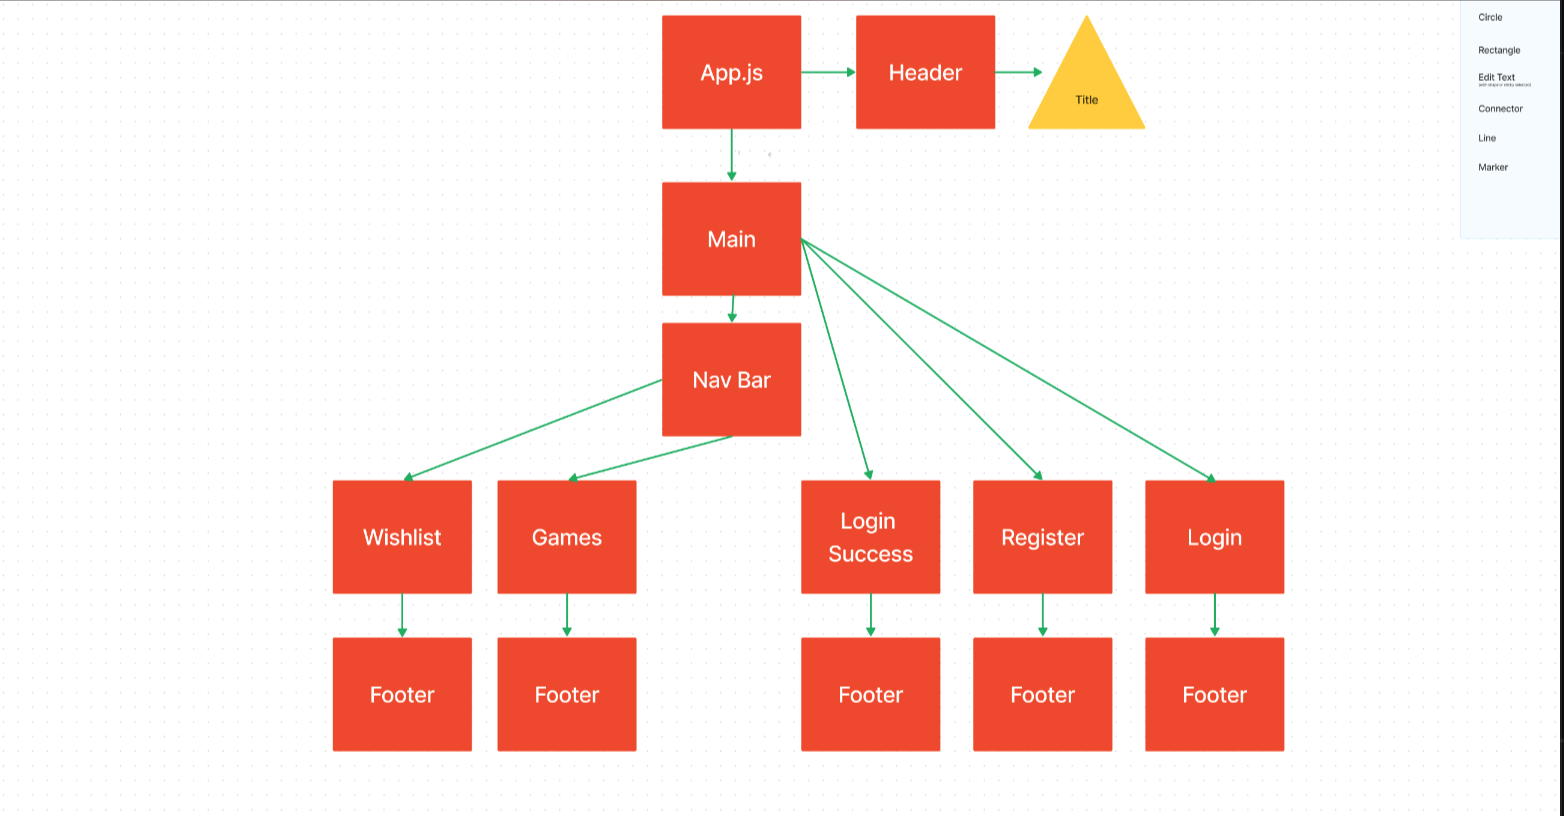
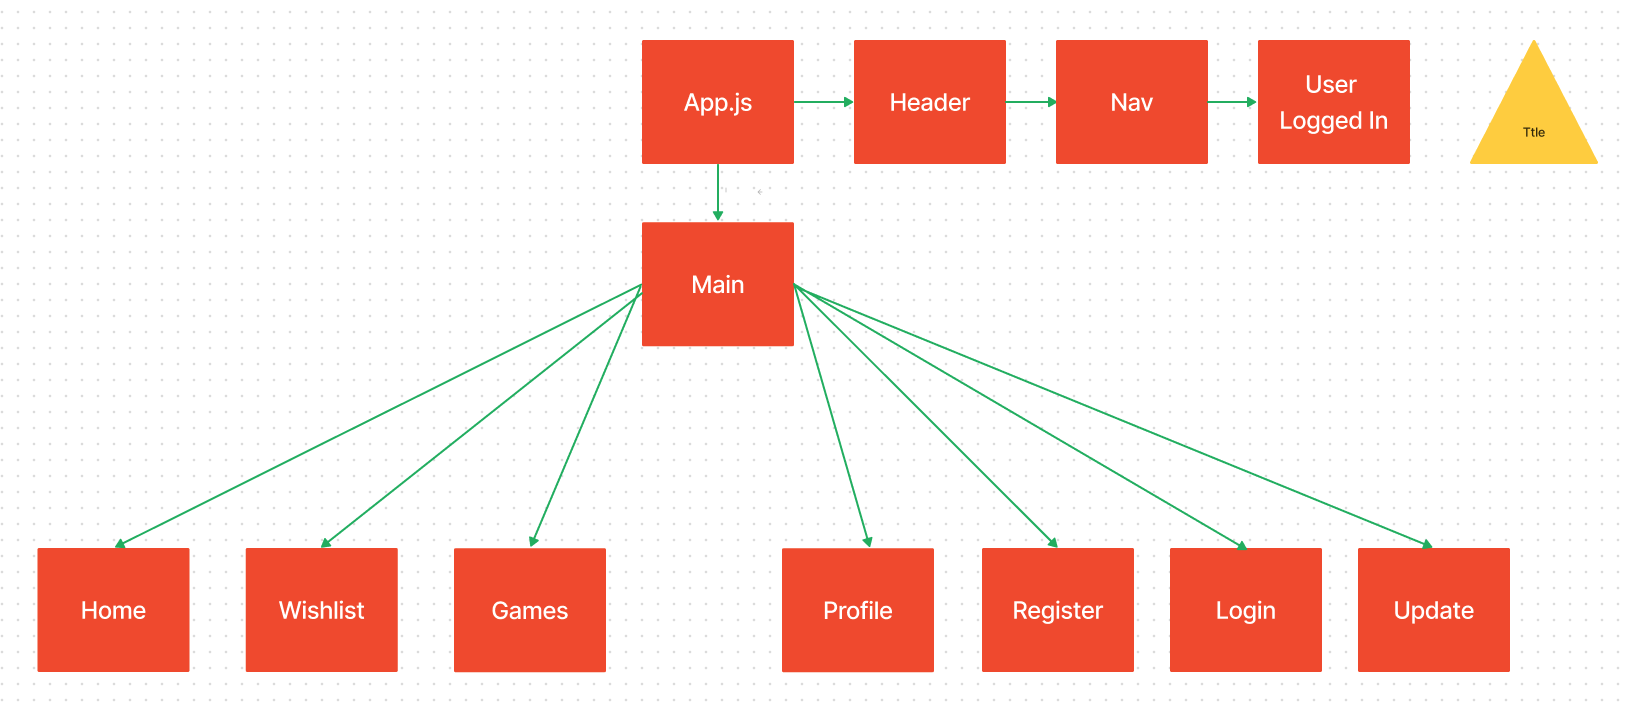
ReadMe update

diff --git a/README.md b/README.md
@@ -3,11 +3,11 @@
 # <Simple-Steam>
 
 ## Description
- This project is a Steam clone. We decided to make a straightforward wishlist for users to add games from any genre to a list. This project was created to demonstrate our knowledge of PERN Stack(PostgreSQL, Express, React, Node.js) and use of CRUD. 
+ This project is a Steam clone. We decided to make a wishlist for users to add games from any category to a list after making an account. This project was created to demonstrate our knowledge of PERN Stack(PostgreSQL, Express, React, Node.js) and use of CRUD. 
 
 
 ## Planning
-We used figma for our wireframe to design website layout and planned out associations and models on a ERD. Listed below:
+We used figma for our wireframe to design website layout and planned associations and models on a ERD. The project managment was done on Trello Listed below:
 
 [Figma](https://www.figma.com/file/GJcglGgbjQxmLAuQeQYUhN/Component-Heirarchy?node-id=0%3A1&t=3fR5PiBGsENvhGuf-1)
 ![Example screenshot](./Images/wireframe.png)
@@ -20,27 +20,34 @@ We used figma for our wireframe to design website layout and planned out associa
 ![Example screenshot](./Images/flowchart.png)
 
 [Models & Associations](https://drive.google.com/file/d/1hKJR3raH_j_YbcrahY0dtTSxKKbwjMqw/view?usp=sharing)
-![Example screenshot](./Images/ERDmodelsandassoc.png)
+![Example screenshot](./Images/ERD.png)
+
+## Workflow 
+Our serverside code was deleveloped first in a joint collaboration effort via zoom. From there we developed the UI components independently. Alpagu took on the task of the Search/Nav Bar and wishlist. Faatimah developed the login and register components; Patrick developed the games and landing page; followed by Tyler with the Update profile, title and logged in components. 
 
 ## Installation
 
-Installation includes front-end and back-end libraries and dependencies listed below. More details are on the Trello planner. 
+Initially we created a back-end and front-end(Client) folder. The backend was developed first. The installation includes front-end and back-end libraries and dependencies listed below. More details are on the Trello planner. 
 
-React:
+Sequelize:
+```
+npm init -y
+npm i sequelize pg 
+(modify config.json dialect to postgres and development_database names)
+sequelize db:create
+sequelize model:generate -name (Model Name) -attributes (name:string, score:integer, etc..)
+sequelize db:migrate
+sequelize db:seed:all
+npm run dev
+```
+Client:
 ```
 npm install
 npm install react-router-dom
 npm install axios
 npx create-react-app my-app
 ```
-Sequelize:
-```
-npm install
-sequelize db:create
-sequelize db:migrate
-sequelize db:seed:all
-npm run dev
-```
+
  
 ## Usage
 
@@ -52,7 +59,7 @@ To add a screenshot, create an `assets/images` folder in your repository and upl
     ![alt text](assets/images/screenshot.png)
     ```
 
-## Credits
+## Collaborators
 
 Faatimah Cleveland [Github](https://github.com/mynameisfaatimah)
 
@@ -65,5 +72,10 @@ Alpagu Ilgar Saka [Github](https://github.com/narniaeagle)
 
 
 ## Features
+- Users log in and create account
+- Select and browse favorite game titles.
+- Add/remove titles from wishlist
+- Users can add additional wishlists and name them
+- Users can search for games via search bar
+- Users can update their login information
 
-If your project has a lot of features, list them here.
